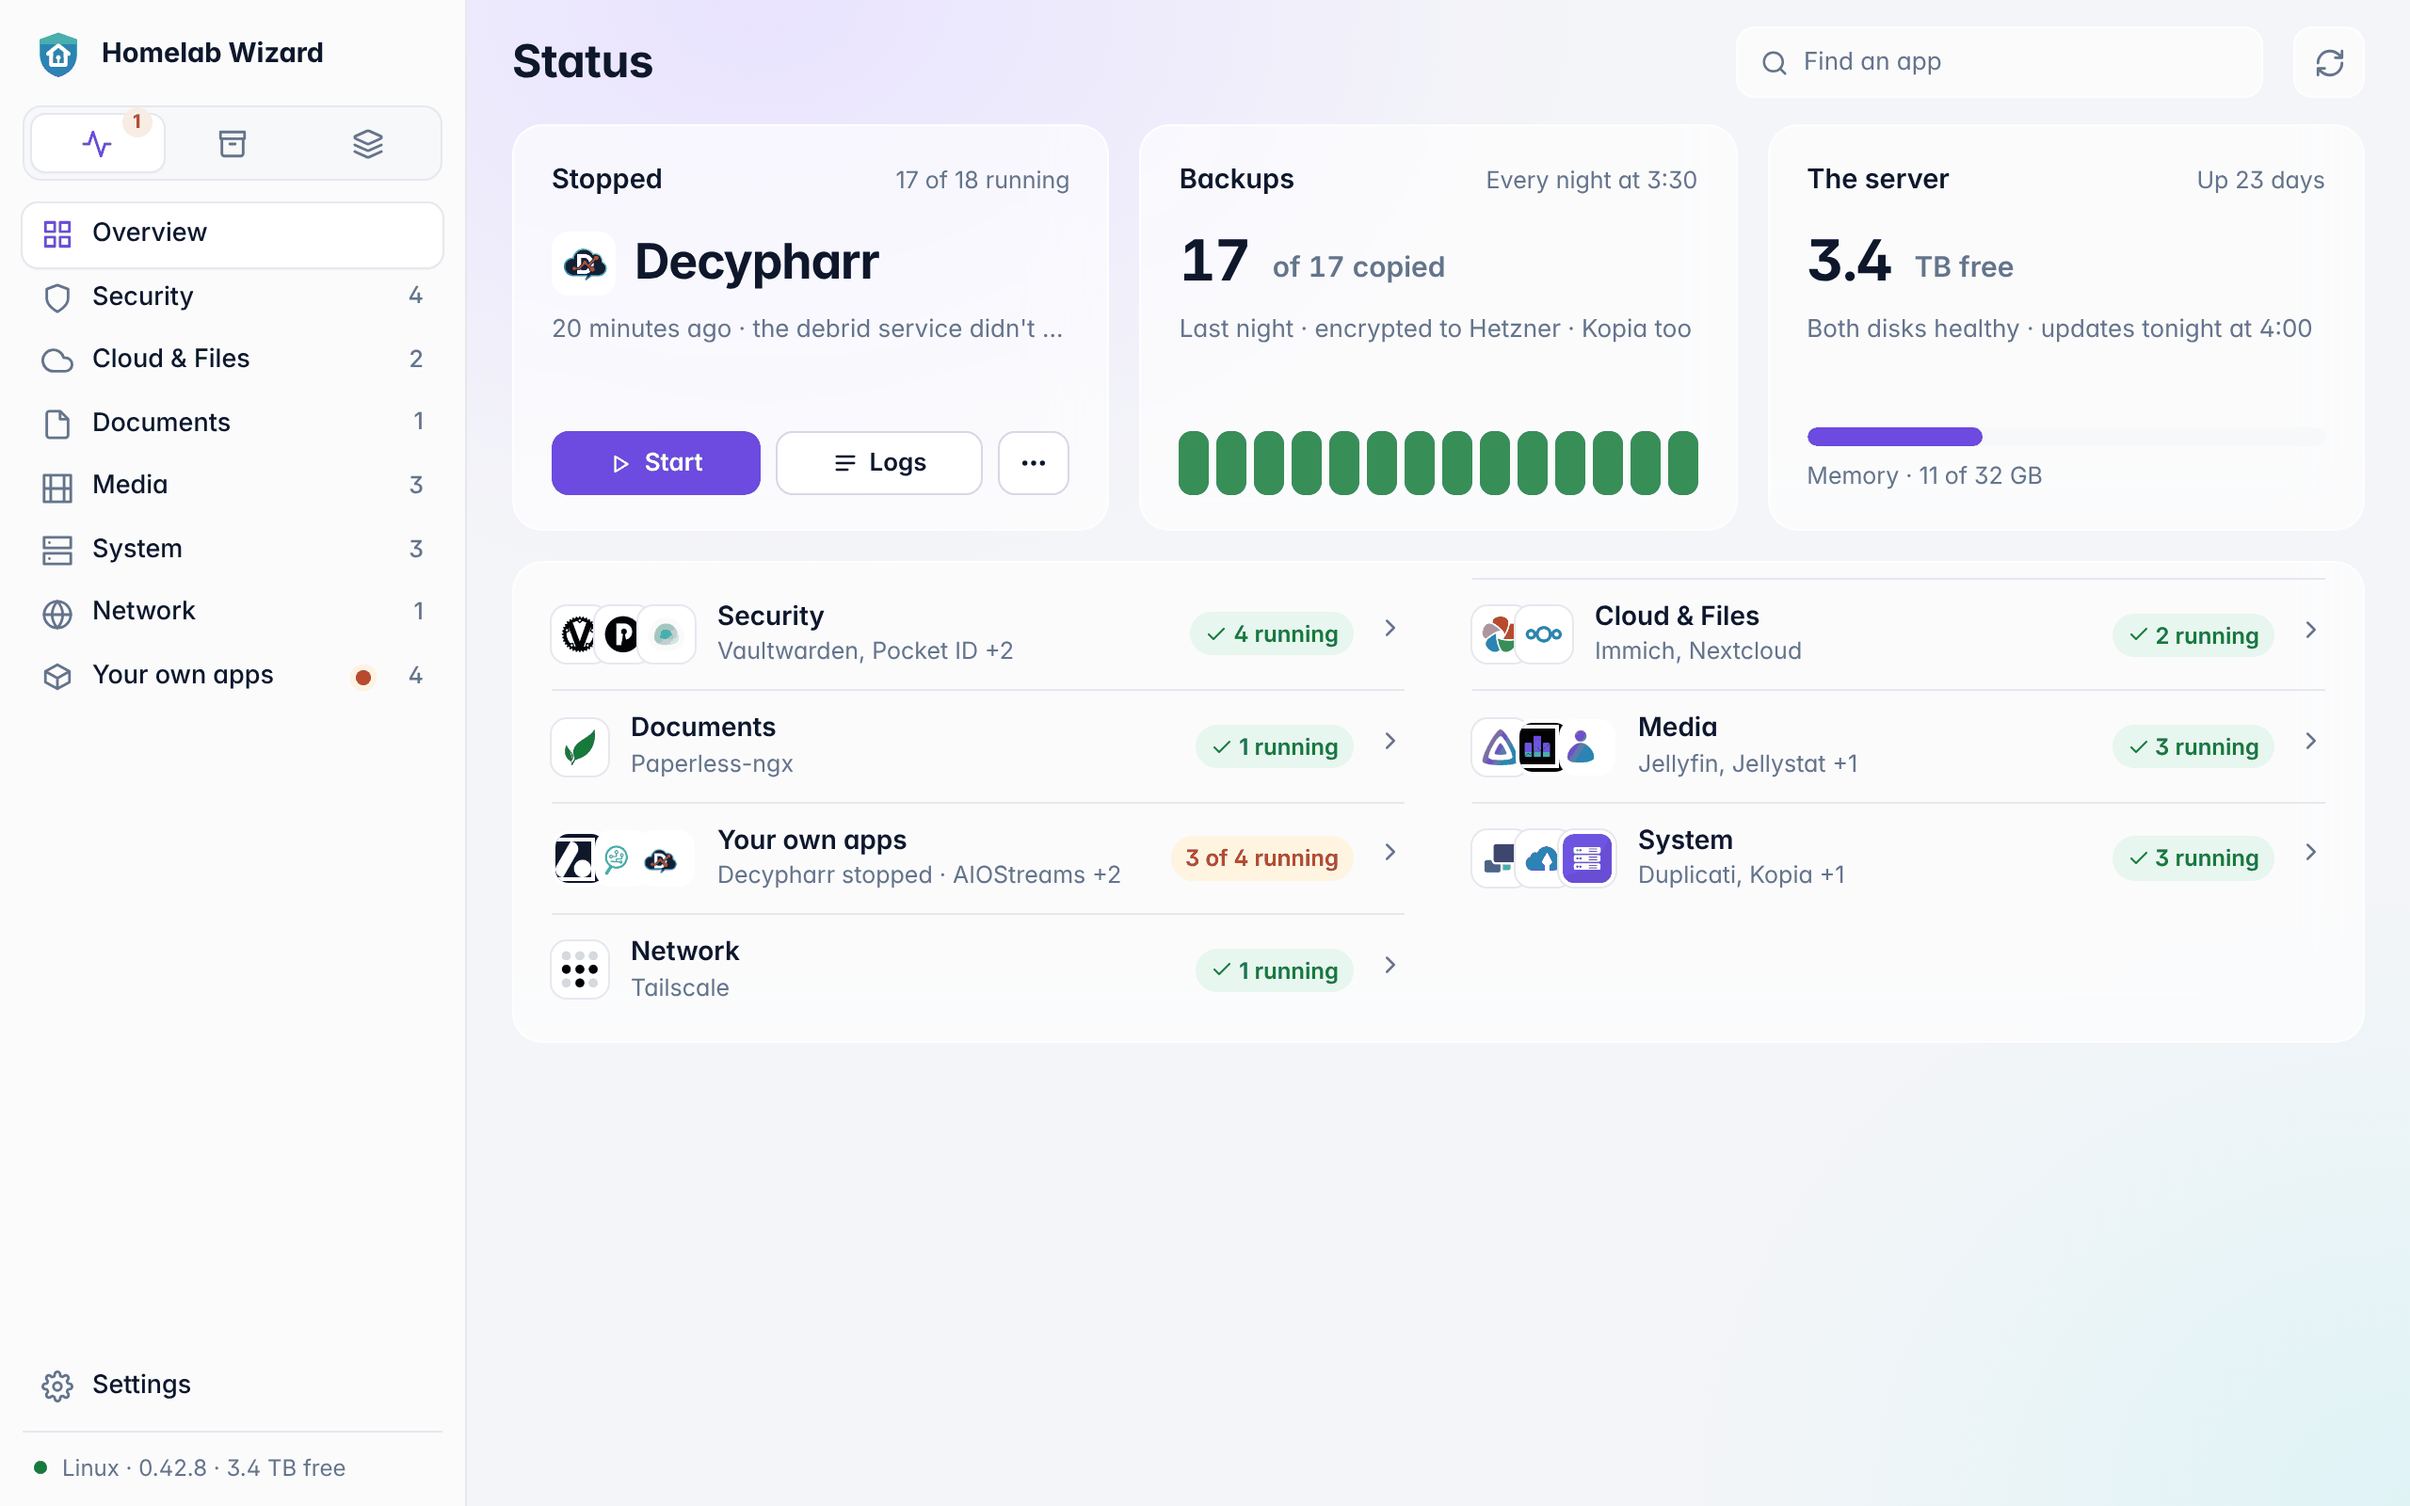
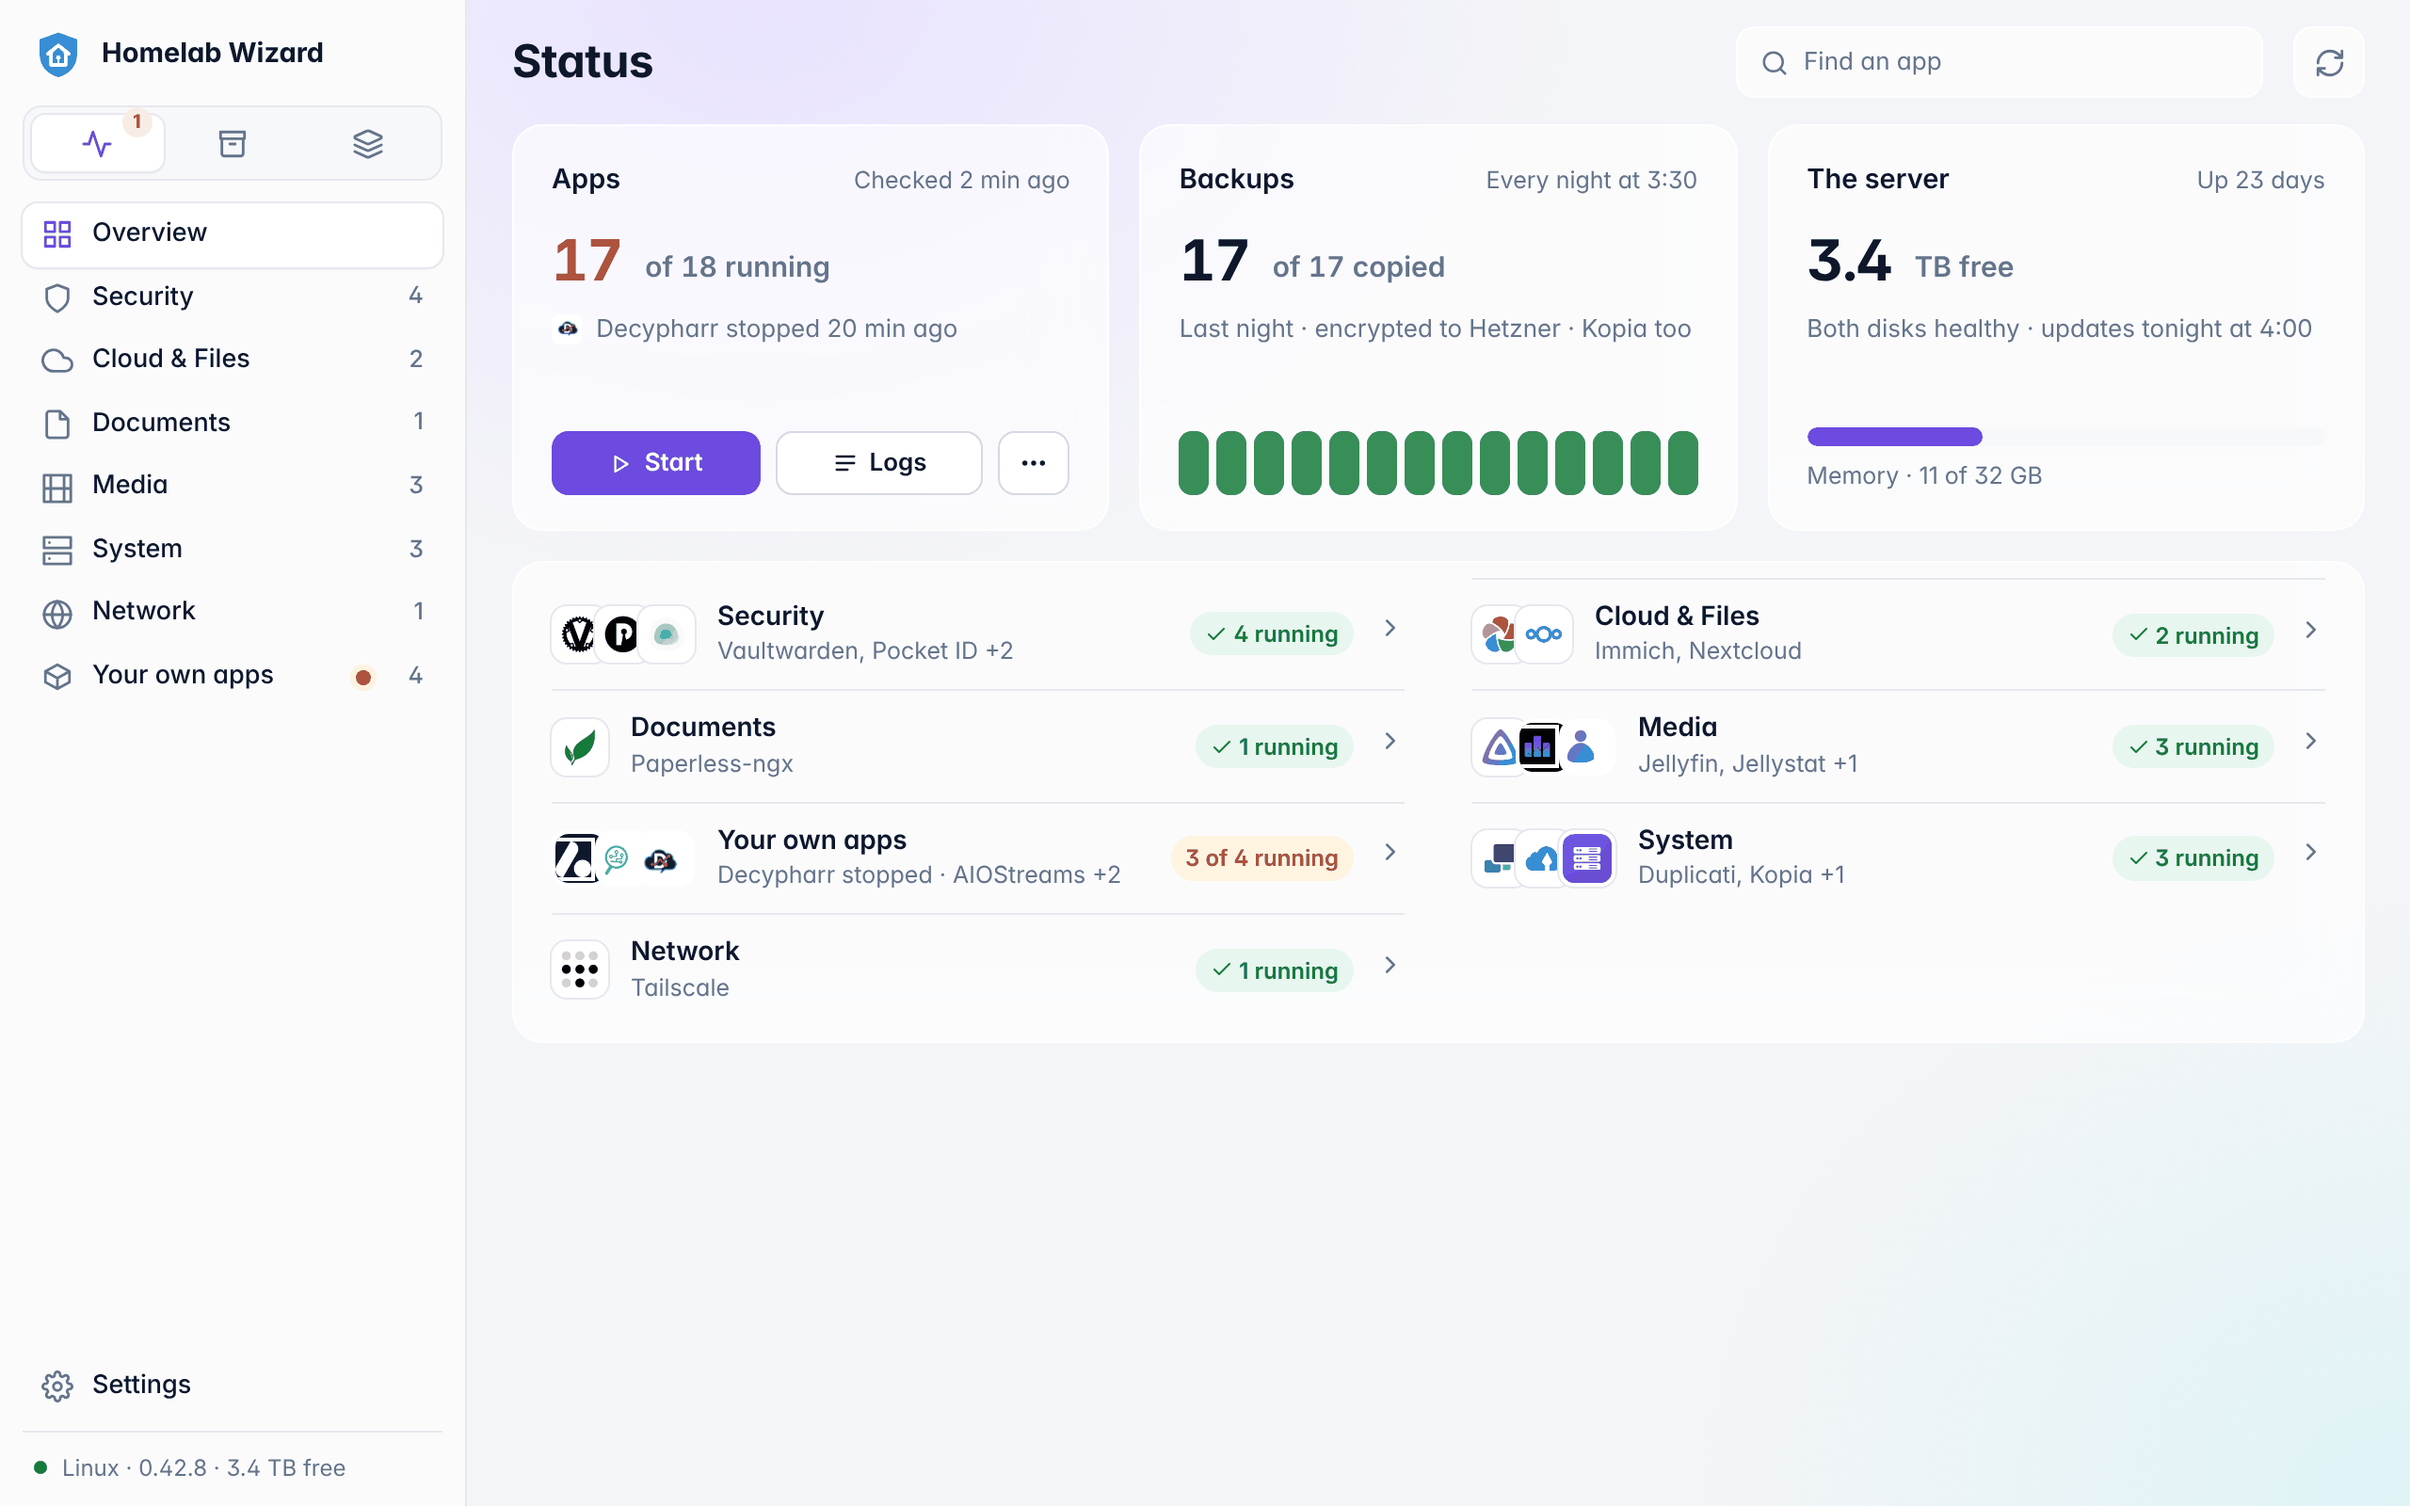
Status' first card is Apps, in both states
The owner, Nov 25: a card built around one stopped app has nothing to
say once it starts. The first card is now always Apps: all well, how
many run and the last fourteen days as squares; something stopped,
the figure turns amber, the line names it, and the footer becomes
Start and Logs. web-wide-ok.png draws the all-well state. Redesign.md
and web-loop.md now require every card drawn in every state, never a
card that appears, disappears or changes size.

Claude-Session: https://claude.ai/code/session_019rTjse5SCV1XTGeNN8Q41b

diff --git a/docs/Redesign.md b/docs/Redesign.md
@@ -43,6 +43,7 @@ Every screen is built from the same few parts. A screen that matches its picture
 - **Every card opens what it summarises** (its ↗).
 - **Nothing empty:** a card's height comes from what it holds; no tall card beside a short one leaving a hole.
 - **Cards in a row are built the same way** (the owner, Nov 25: *"we need to stop doing that"*, of three cards on a row each laid out differently): the title row, then **one figure on the same line in every card**, then **one line under it**, then a **footer pinned to the bottom at the same height** (the buttons, the nights, a bar). **No boxes inside a card**, no text that wraps in a figure, no empty band under one card's content where its neighbour has more. If one card has more to say, it goes behind its ↗, not into the card.
+- **Every card is drawn in every state it can be in** (the owner, Nov 25: *"what's gonna happen to that box … once we start it up again"*): all well, one problem, several, no data yet. A card never appears, disappears or changes size when the state changes; only what's inside it does. A card *about* a problem ("Stopped", "Decypharr") isn't a card: the card is the thing the problem belongs to (Apps), and the problem is its state.
 
 ### The computer's sidebar
 
@@ -146,6 +147,10 @@ How far the phone's page (`homelab serve`) can go toward the Homelab app, drawn 
 </p>
 
 <picture><source media="(prefers-color-scheme: dark)" srcset="images/redesign/web-wide-dark.png"><img alt="The phone's page on a tablet: the computer's sidebar with the screens as a strip of icons and Status' own menu, then the stopped app, Backups, the server, and each category" src="images/redesign/web-wide.png"></picture>
+
+<picture><source media="(prefers-color-scheme: dark)" srcset="images/redesign/web-wide-ok-dark.png"><img alt="The same page with every app running: Apps says 18 running, all answering, with the last fourteen days as squares (one amber), in the place where Start and Logs were" src="images/redesign/web-wide-ok.png"></picture>
+
+**Status' first card is Apps, always.** All well: how many run, *All answering · 1 outage in 14 days*, and the last fourteen days as squares (amber on a day any app was down), as Backups shows its nights. Something stopped: the figure turns amber (*17 of 18 running*), the line names it with its logo (*Decypharr stopped 20 min ago*), and the footer becomes **Start**, **Logs** and ⋯ (two or more: **Start all** and **See them**). Start it and the card goes back without moving.
 
 - **Status:** the phone's Status above, with the server in place of This Mac, and **Alerts on this phone** offered once.
 - **An app's page:** a back button and its own title; Open, Restart, Logs and Stop; its week, its backups (with Get something back), its last update with Roll back.

diff --git a/.claude/prompts/web-loop.md b/.claude/prompts/web-loop.md
@@ -44,7 +44,7 @@ Or, for a loop that paces itself: `/loop Read .claude/prompts/web-loop.md and do
 3. **What it shares with lane R:** the screens themselves (`web/src/screens/`, `web/src/status/`, `web/src/backups/`, `web/src/page/`, `web/src/parts/`). Change one only for the phone's page (an `onPhone()` branch, a part both use), and only when R has no open pull request on that file. A change R should make on the computer goes under **From the other lanes** in `redesign-loop.md`.
 4. **Never:** `apple-client/` (lane R's item P1), Finances' data (lane M: `web/src/finances` data files, `internal/finance`), Tidy Up on the phone (the owner: it stays on the computer).
 5. **Q reviews first** (`lanes.md` rule 6) for anything that: adds a call to `phoneMethods`; changes pairing, tokens, or what a phone may do; adds a host the homelab calls (Web Push does: W9); stores a new secret (VAPID keys: W9); or touches sign-in (passkeys: W11). Write **Needs Q's review: yes** and why on the description's first line.
-6. **Cards in a row share one anatomy** (the owner, Nov 25: *"we need to stop doing that"*): title row, one figure on the same line in every card, one line under it, a footer pinned to the bottom at the same height. No boxes inside cards, no wrapping figures, no empty band under one card. `docs/Redesign.md` › *Cards*. Check it in every picture before opening a pull request.
+6. **Cards in a row share one anatomy** (the owner, Nov 25: *"we need to stop doing that"*): title row, one figure on the same line in every card, one line under it, a footer pinned to the bottom at the same height. No boxes inside cards, no wrapping figures, no empty band under one card. `docs/Redesign.md` › *Cards*. Check it in every picture before opening a pull request. **And draw every card in every state** (all well, one problem, several, no data yet): a card never appears, disappears or changes size when the state changes; the card is the thing a problem belongs to (Apps), never the problem ("Stopped"). Status' first card is **Apps** in both states: `web-wide.png` and `web-wide-ok.png`.
 7. **Words** (`lanes.md` rule 12), and the owner's, Nov 25: **never "needs you"** (*"1 app needs you"*, *"Needs you"*). Say what happened: *"Decypharr stopped"*, *"Stopped"*, *"2 backups failed"*. Never write the household's chores as the app's feelings.
 8. **The devices to check, every pull request that changes how the phone's page looks.** Pictures of the **Duo's four poses** go in the description, light and dark; the rest run as smoke cases (`app/preview/shoot.mjs`, add a case per size):
 
